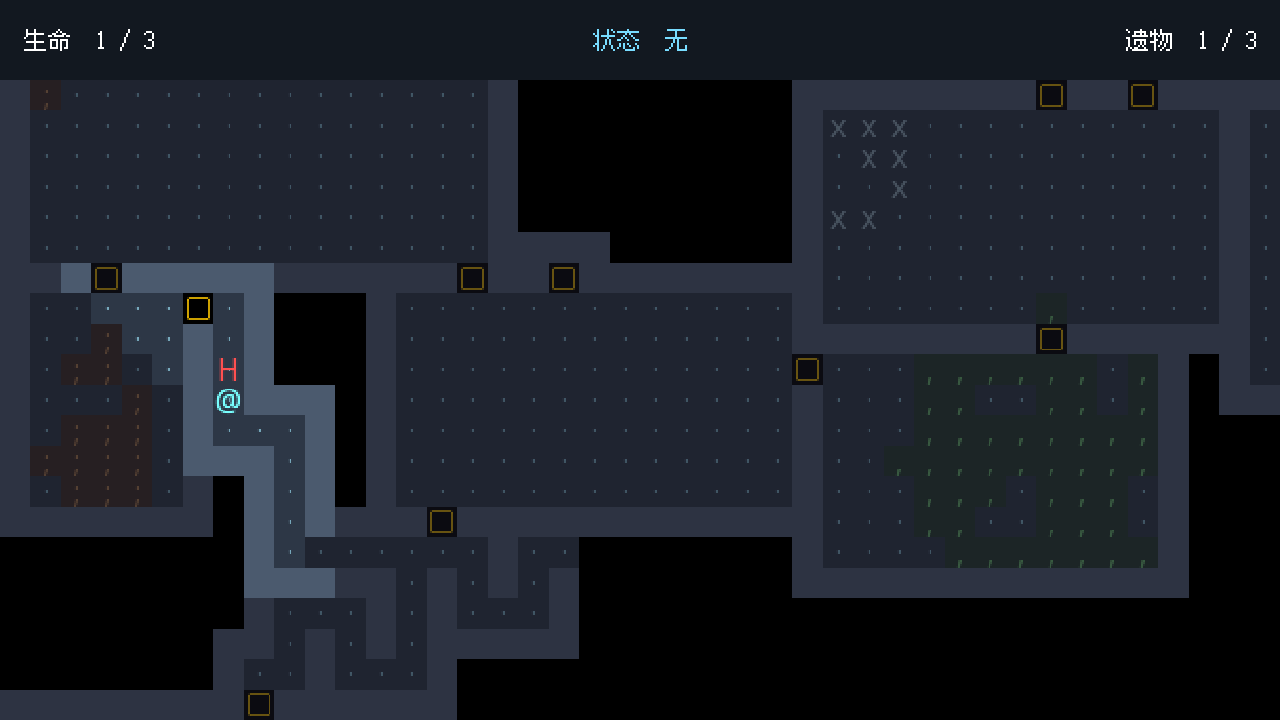
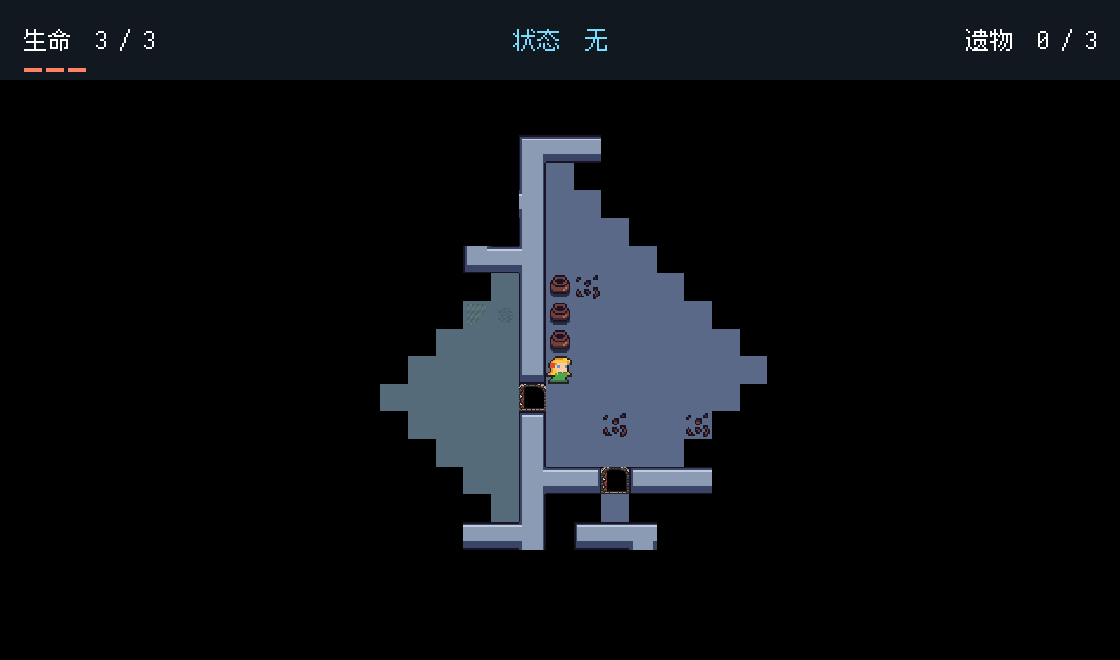
docs: present BYOW Dungeon Explorer on GitHub

diff --git a/README.md b/README.md
@@ -1,55 +1,65 @@
-# BYOW · 地牢探险
+# BYOW 地牢探险
 
-围绕 CS61B Build Your Own World 主题实现的 Java 桌面地牢探索游戏，使用 libGDX 渲染。输入种子生成地图，在迷雾中收集遗物、应对怪物，并寻找出口。
+BYOW 是一款用 Java 21 和 libGDX 开发的桌面实时地牢探索游戏，源自 Berkeley CS 61B 的 Build Your Own World 项目。输入种子生成地牢，在迷雾中收集遗物、避开怪物，再从开启的出口逃离。 [课程项目说明](https://sp21.datastructur.es/materials/proj/proj3/proj3)
 
-地图上有 5 种遗物，收集任意 3 个就能激活出口。每次拾取都会激活对应怪物；继续收集第 4、5 个遗物还能获得增益。生命归零失败，存活并走进已激活出口获胜。
+![种子 42 中的房间陈设与探索迷雾](docs/images/gameplay.png)
 
-## 游戏画面
+## 快速开始
 
-![种子 42 的地牢探索画面](docs/images/gameplay.png)
+安装 JDK 21，并让终端使用该 JDK。项目自带 Gradle Wrapper，首次运行会下载 Gradle 和依赖。
 
-![存档覆盖确认界面](docs/images/save-confirm.png)
+```bash
+git clone https://github.com/everlastingQAQ/byow-dungeon-explorer.git
+cd byow-dungeon-explorer
+```
 
-以上为 WSLg/X11 环境下实际渲染的游戏和存档覆盖确认画面。
+Windows PowerShell
 
-## 已实现内容
+```powershell
+.\gradlew.bat :lwjgl3:run
+```
 
-| 模块 | 内容 |
-|---|---|
-| 地图 | 101 × 61 格；随机房间、迷宫、并查集区域连接、死胡同清理、地面装饰 |
-| 回合 | 成功移动推进交互与怪物行动；撞墙、无效按键不推进；主动撞怪会结算伤害 |
-| 怪物 | 猎手追踪、伏击者预测、守卫警戒与返回、巡逻者往返、胆小鬼追逃切换 |
-| 遗物与增益 | 5 种固定映射；视野、回血、出口雷达、护盾、冻结 |
-| 场景物件 | 尖刺陷阱、治愈泉、双向传送门、随机增益宝箱 |
-| 界面 | 中文菜单、生命与增益 HUD、探索迷雾、怪物首次提示、鼠标悬停说明 |
-| 存档 | 5 个槽位、覆盖确认、版本与数据校验、原子替换、失败提示 |
-
-## 运行与操作
-
-开发和构建使用完整 JDK 21。项目自带 Gradle Wrapper，无需单独安装 Gradle；首次构建需要联网下载依赖。已缓存依赖时可追加 `--offline`。
-
-在项目根目录运行：
+Linux 或 macOS
 
 ```bash
 ./gradlew :lwjgl3:run
 ```
 
-Windows 使用 `gradlew.bat :lwjgl3:run`。桌面程序需要图形环境；在 WSL 中运行需要可用的 WSLg 或显示服务。
+桌面程序需要图形环境。在 WSL 中运行时需要 WSLg 或其他显示服务。进入主菜单后按 `N`，输入 `42`，再按 `S` 开始探索截图里的地牢。同一版本使用相同种子会生成相同的初始布局。
 
-| 页面 | 按键 |
-|---|---|
-| 主菜单 | `N` 新游戏，`L` 读档，`Q` 退出程序 |
+## 玩法与操作
+
+地图上有五种遗物。每次拾取都会激活对应的怪物，收集任意三件即可开启出口。继续拾取第四、第五件可以获得视野、治疗、出口雷达、护盾或冻结增益。生命归零时游戏失败，活着进入已开启的出口即可获胜。
+
+怪物会实时追踪、伏击、守卫、巡逻或追逃切换。观察喘息和冻结提示可以找准穿过走廊的时机。地牢里还会生成尖刺、治愈泉、双向传送门及随机增益宝箱。
+
+| 场景 | 操作 |
+| --- | --- |
+| 主菜单 | `N` 开始新游戏，`L` 读档，`Q` 退出程序 |
 | 输入种子 | 输入 0～9223372036854775807，`S` 开始，退格删除，`B` 返回 |
-| 游戏中 | `W/A/S/D` 移动，`P` 暂停；鼠标悬停查看当前可见格说明 |
-| 暂停 | `P` 继续，`S` 保存，`Q` 返回菜单；未保存时先显示确认 |
-| 保存/加载 | `1～5` 选择槽位，`B` 返回 |
-| 覆盖确认 | `Y` 确认，`N/B` 取消 |
-| 未保存退出确认 | `Y` 先选择槽位保存，`N` 放弃本次未保存进度，`B` 返回暂停 |
-| 胜利/失败 | `N` 新游戏，`M/Q` 返回菜单 |
+| 探索 | 按住 `W/A/S/D` 移动，鼠标悬停查看可见地格和角色，`P` 暂停 |
+| 暂停 | `P` 继续，`S` 保存，`Q` 返回主菜单 |
+| 保存与加载 | `1–5` 选择存档槽，`B` 返回 |
+| 覆盖存档 | `Y` 确认，`N` 或 `B` 取消覆盖 |
+| 未保存时返回菜单 | `Y` 先选槽保存，`N` 放弃本次进度，`B` 返回暂停 |
+| 胜利或失败 | `N` 开始新游戏，`Q` 返回主菜单 |
 
-按键不区分大小写。种子相同会生成相同的地图、出生位置和初始遗物布局。
+## 存档
 
-## 构建与验证
+游戏有五个 JSON 存档槽。存档记录房间布局、探索范围、随机数状态、角色位置、格间移动和怪物计时。进行中的游戏读档后停在暂停画面，按 `P` 继续。覆盖已有槽位需要确认，保存时在同目录写入临时文件并原子替换。
+
+![选择已有槽位时的覆盖确认](docs/images/save-confirm.png)
+
+| 启动方式 | 默认存档路径 |
+| --- | --- |
+| Gradle 的 `:lwjgl3:run` | 项目目录下的 `assets/save/slot1/save.json` 至 `assets/save/slot5/save.json` |
+| 从项目根目录启动 JAR | `save/slot1/save.json` 至 `save/slot5/save.json` |
+
+也可以用 `-Dbyow.saveDir=/absolute/path/to/save` 固定存档目录，避免切换启动方式后读到不同的位置。
+
+新版存档使用 `formatVersion: 2`。游戏可以读取已发布的 v1 存档和缺少版本号的旧存档。加载会校验数据并先构造恢复状态，旧档会在下次手动保存时升级。
+
+## 构建与测试
 
 ```bash
 ./gradlew :core:test :lwjgl3:classes
@@ -57,43 +67,24 @@ Windows 使用 `gradlew.bat :lwjgl3:run`。桌面程序需要图形环境；在 
 java -jar lwjgl3/build/libs/BYOW-1.0.0.jar
 ```
 
-JAR 包含运行所需依赖和资源，运行需要 Java 21 或更新版本。macOS 启动时按 libGDX/LWJGL 要求添加 `-XstartOnFirstThread`。
-
-JUnit 报告位于 `core/build/reports/tests/test/index.html`。当前自动化测试涵盖遗物与 Buff、怪物移动冲突、地图连通与确定性、存档真实读写、异常数据拒绝、覆盖取消、保存失败保护、输入状态机，以及存读档后继续游玩的结果一致性。写入测试使用 JUnit 临时目录，不覆盖玩家存档。
-
-## 存档位置与兼容性
-
-默认保存到**程序工作目录**下的 `save/slot1/save.json` 至 `save/slot5/save.json`。因此：
-
-- 使用 Gradle 的 `:lwjgl3:run` 时，工作目录为 `assets/`，默认存档在 `assets/save/`。
-- 从项目根目录执行上面的 `java -jar` 命令时，默认存档在根目录 `save/`。
-- 可通过 JVM 属性固定存档目录，避免不同启动方式读到不同位置：
-
-```bash
-java -Dbyow.saveDir=/absolute/path/to/save -jar lwjgl3/build/libs/BYOW-1.0.0.jar
-```
-
-新存档带有 `formatVersion: 1`。没有版本号的旧存档允许读取，并沿用可选字段默认值；未来版本及不满足数据校验的文件会提示错误。当前没有完整的版本迁移层。
-
-保存时先在同目录写临时文件，再执行原子替换；文件系统不支持原子替换时报告失败。该机制不保留多份历史备份。当前限制为单份文件最多 16 MiB、地图每个维度 3～1024 格。
+Windows 上使用 `.\gradlew.bat` 调用相同任务。macOS 手动运行 JAR 时，在 `-jar` 前添加 `-XstartOnFirstThread`。测试报告位于 `core/build/reports/tests/test/index.html`。
 
 ## 实现结构
 
 ```mermaid
 flowchart LR
-    Input[键盘输入] --> Engine[Engine 状态与回合结算]
-    Generation[地图与物件生成] --> Engine
-    Engine --> AI[怪物策略与 BFS 寻路]
-    Engine --> Vision[视野与探索记录]
-    Engine <--> Save[JSON 存档与校验]
-    Engine --> Render[libGDX 地图与中文界面]
+    Input["键盘输入与帧更新"] --> Engine["Engine 固定步长模拟"]
+    Generation["种子地图与房间生成"] --> Engine
+    Engine --> AI["怪物行为与 BFS 寻路"]
+    Engine --> Vision["视野与探索迷雾"]
+    Engine <--> Save["JSON 存档与校验"]
+    Engine --> Render["libGDX 地图与中文界面"]
 ```
 
-- `core` 保存游戏逻辑与测试；`lwjgl3` 提供桌面启动入口；`assets` 提供字体等资源。
-- 地图生成将区域连接、死胡同清理与装饰分阶段处理；装饰与场景物件使用独立随机流。
-- 怪物先依据回合开始时的位置计算意图，再由控制器统一处理占位和目标冲突；稳定 ID 决定冲突优先级。
-- 存档保存随机数状态、怪物锁定目标、探索区域和增益状态。加载时先恢复完整候选状态，再替换当前游戏。
+- **地图生成**。101 × 61 格的地牢由房间和迷宫组成，通过并查集连接区域并清理死胡同。房间主题、家具和场景物件使用独立随机流。
+- **实时模拟**。逻辑以每秒 60 个固定时间步更新，渲染在格间插值。玩家和怪物移动时保留起点占用并预约目标格，怪物按稳定 ID 处理行动冲突。
+- **代码模块**。`core` 包含地图生成、实时模拟、渲染及测试，`lwjgl3` 提供桌面入口，`assets` 存放贴图和字体。 [设计文档](core/src/DESIGN.md)
 
-桌面工程框架由 [gdx-liftoff](https://github.com/libgdx/gdx-liftoff) 生成，渲染基于 [libGDX](https://libgdx.com/)，JSON 使用 Gson。
+桌面框架由 gdx-liftoff 生成，渲染使用 libGDX，存档用 Gson 读写。 [gdx-liftoff](https://github.com/libgdx/gdx-liftoff) · [libGDX](https://libgdx.com/) · [Gson](https://github.com/google/gson)
 
-
+像素精灵与地形资源的作者、来源和许可见项目里的素材说明。 [DungeonTileset II](assets/sprites/dungeon-ii/ASSET_LICENSE.md) · [RGS_Dev](assets/tilesets/rgs-cc0/README.md)
